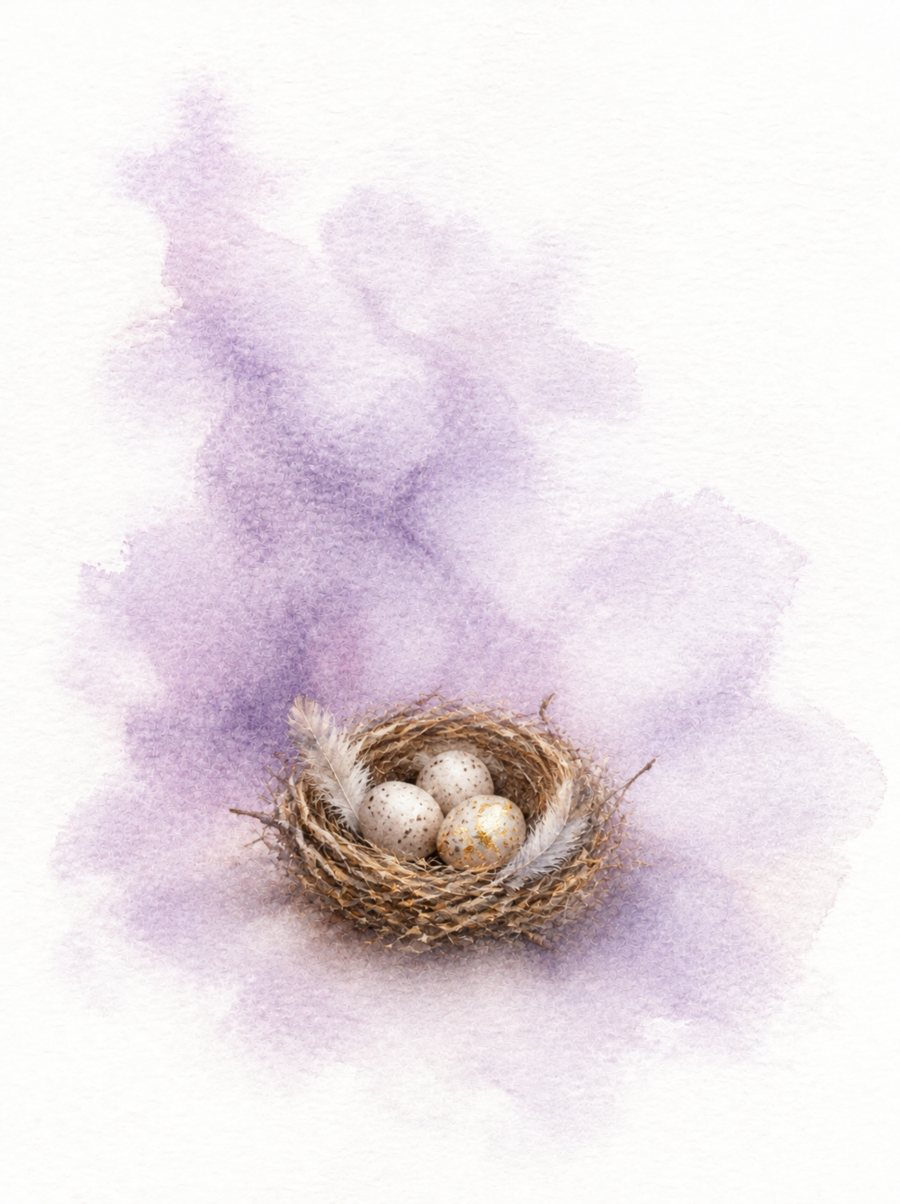
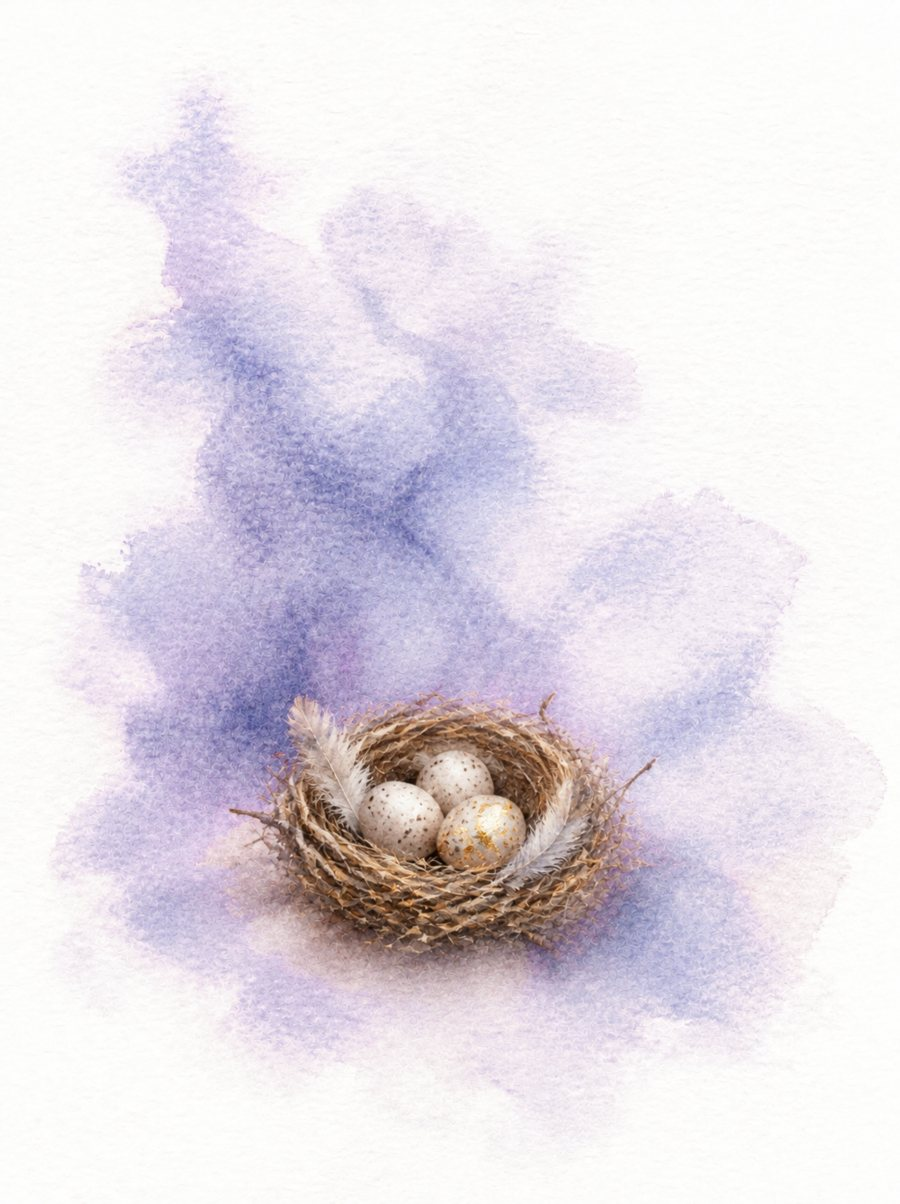
КОПИЯ: «Основа метода» — цвета уровней как у ступеней на сайте; карты растворяются в фоне, как чаши на «Твой путь»; у карт 2, 3, 5 оттенок облака подогнан под цвет ступени (Ирина: «3 2 5 переделаем»)
Claude-Session: https://claude.ai/code/session_0123FQX3t97AptEXXf1AmFJK

Changed region(s): [[0.1556, 0.2458, 0.56, 0.6761], [0.6533, 0.7375, 0.7467, 0.799], [0.7467, 0.5839, 0.7778, 0.6146]]

diff --git a/osnova/index.html b/osnova/index.html
@@ -413,9 +413,9 @@ footer a{color:var(--muted)}
 }
 
 /* ===== «Основа метода» (osnova/, 15.10.2026) — цвета уровней спиральной динамики ===== */
-:root{--l1:#9C8461;--l1s:#F2EADC;--l2:#76579A;--l2s:#EFE7F6;--l3:#B4433A;--l3s:#F8E4E0;--l4:#2F5E95;--l4s:#E3ECF6;--l5:#BE661C;--l5s:#F9E9D7;--l6:#4C7A43;--l6s:#E5EFDF;--l7:#9A7A0E;--l7s:#F7F0D2;--l8:#1C827E;--l8s:#DDF1EF;--gold:#B98324;--fig:#FBF7F0}
-@media (prefers-color-scheme: dark){:root:not([data-theme="light"]){--l1:#D2BE9A;--l1s:#3A3126;--l2:#C6ACE2;--l2s:#30273A;--l3:#F0A69C;--l3s:#3D2624;--l4:#9CC2EA;--l4s:#1D2733;--l5:#F2B57E;--l5s:#3B2B1D;--l6:#AED3A0;--l6s:#243020;--l7:#E8CF6E;--l7s:#373017;--l8:#8ED9D3;--l8s:#1B3331;--gold:#E2B45C;--fig:#F4EEE4}}
-:root[data-theme="dark"]{--l1:#D2BE9A;--l1s:#3A3126;--l2:#C6ACE2;--l2s:#30273A;--l3:#F0A69C;--l3s:#3D2624;--l4:#9CC2EA;--l4s:#1D2733;--l5:#F2B57E;--l5s:#3B2B1D;--l6:#AED3A0;--l6s:#243020;--l7:#E8CF6E;--l7s:#373017;--l8:#8ED9D3;--l8s:#1B3331;--gold:#E2B45C;--fig:#F4EEE4}
+:root{--l1:#8E8470;--l1s:#ECE7DD;--l2:#6A5FB8;--l2s:#E7E4F7;--l3:#C25468;--l3s:#F8E0E4;--l4:#3F6FBF;--l4s:#E1EBFA;--l5:#C97E52;--l5s:#FAE8DC;--l6:#4E9A70;--l6s:#E1F1E7;--l7:#A99A2E;--l7s:#F7F2D3;--l8:#2894A0;--l8s:#DDF3F4;--gold:#B98324;--fig:#FBF7F0}  /* цвета ступеней — как на сайте (put/, главная: COL, STEPC) */
+@media (prefers-color-scheme: dark){:root:not([data-theme="light"]){--l1:#CFC4AE;--l1s:#35302A;--l2:#B3AAEE;--l2s:#2C2A3D;--l3:#F0A0AE;--l3s:#3B2529;--l4:#9DBEF0;--l4s:#1F2836;--l5:#EDB08A;--l5s:#3A2C22;--l6:#9FD6B5;--l6s:#213128;--l7:#DDD07A;--l7s:#353219;--l8:#8AD6DB;--l8s:#1B3234;--gold:#E2B45C;--fig:#F4EEE4}}
+:root[data-theme="dark"]{--l1:#CFC4AE;--l1s:#35302A;--l2:#B3AAEE;--l2s:#2C2A3D;--l3:#F0A0AE;--l3s:#3B2529;--l4:#9DBEF0;--l4s:#1F2836;--l5:#EDB08A;--l5s:#3A2C22;--l6:#9FD6B5;--l6s:#213128;--l7:#DDD07A;--l7s:#353219;--l8:#8AD6DB;--l8s:#1B3234;--gold:#E2B45C;--fig:#F4EEE4}
 .os h3{font-size:1.5rem}
 .os-hero{grid-template-columns:1.2fr .8fr}
 .os-hero h1{font-size:clamp(2.3rem,5.6vw,3.9rem)}
@@ -467,8 +467,11 @@ footer a{color:var(--muted)}
 @media (max-width:820px){.os-lvl{grid-template-columns:1fr;gap:18px;padding:18px}.os-lvl .os-card{max-width:250px}}
 .os-card{margin:0;display:flex;flex-direction:column;gap:8px;position:sticky;top:96px}
 @media (max-width:820px){.os-card{position:static}}
-.os-card picture,.os-card .os-ph{display:block;width:100%;aspect-ratio:3/4;border-radius:14px;overflow:hidden;background:var(--fig);box-shadow:0 14px 30px -20px rgba(60,40,20,.55)}
-.os-card img{display:block;width:100%;height:100%;object-fit:cover;mix-blend-mode:multiply}
+.os-card picture{display:block;width:100%;aspect-ratio:3/4;overflow:hidden}
+.os-card .os-ph{display:block;width:100%;aspect-ratio:3/4;border-radius:14px;overflow:hidden;background:var(--fig)}
+.os-card img{display:block;width:100%;height:100%;object-fit:cover;mix-blend-mode:multiply}  /* белая бумага растворяется в фоне, как чаши на «Твой путь» */
+@media (prefers-color-scheme: dark){:root:not([data-theme="light"]) .os-card img{mix-blend-mode:normal;border-radius:14px;opacity:.92}}
+:root[data-theme="dark"] .os-card img{mix-blend-mode:normal;border-radius:14px;opacity:.92}
 .os-card.ph{position:relative}
 .os-card .os-ph{background:radial-gradient(ellipse 48% 30% at 50% 66%,color-mix(in srgb,var(--cd) 36%,transparent),transparent 72%),radial-gradient(ellipse 60% 46% at 42% 46%,color-mix(in srgb,var(--cd) 20%,transparent),transparent 70%),radial-gradient(ellipse 40% 34% at 64% 34%,color-mix(in srgb,var(--cd) 14%,transparent),transparent 70%),var(--fig)}
 .os-ph-t{position:absolute;left:0;right:0;top:0;aspect-ratio:3/4;display:flex;flex-direction:column;align-items:center;justify-content:flex-end;gap:2px;padding:16px;text-align:center}
@@ -632,7 +635,7 @@ footer a{color:var(--muted)}
     <nav class="os-lnav" aria-label="Уровни"><a href="#uroven-1" style="--c:var(--l1)"><i></i>1 · Выжить и согреться</a><a href="#uroven-2" style="--c:var(--l2)"><i></i>2 · Быть среди своих</a><a href="#uroven-3" style="--c:var(--l3)"><i></i>3 · Своя сила</a><a href="#uroven-4" style="--c:var(--l4)"><i></i>4 · Порядок и смысл</a><a href="#uroven-5" style="--c:var(--l5)"><i></i>5 · Свой успех</a><a href="#uroven-6" style="--c:var(--l6)"><i></i>6 · Люди и близость</a><a href="#uroven-7" style="--c:var(--l7)"><i></i>7 · Жизнь целиком</a><a href="#uroven-8" style="--c:var(--l8)"><i></i>8 · Одно целое</a></nav>
     <div class="os-lvls">
     <article class="os-lvl" id="uroven-1" style="--c:var(--l1);--s:var(--l1s)" aria-labelledby="ul1">
-      <figure class="os-card" style="--cd:#8A7352"><picture><source srcset="img/01-koster.webp" type="image/webp"><img src="img/01-koster.jpg" width="900" height="1204" loading="lazy" alt="Акварельная карта «Огонь, который греет»"></picture><figcaption><b>Огонь, который греет</b><span>выжить, согреться, перевести дух</span></figcaption></figure>
+      <figure class="os-card" style="--cd:#8E8470"><picture><source srcset="img/01-koster.webp" type="image/webp"><img src="img/01-koster.jpg" width="900" height="1204" loading="lazy" alt="Акварельная карта «Огонь, который греет»"></picture><figcaption><b>Огонь, который греет</b><span>выжить, согреться, перевести дух</span></figcaption></figure>
       <div class="os-lvl-body">
         <div class="os-lh"><span class="os-num">1</span><div><div class="os-eb">Уровень 1 · бежевый · A–N · про «я»</div><h3 id="ul1">Выжить и согреться</h3></div></div>
         <p class="os-ess">Всё внимание уходит на тело: еду, тепло, сон и безопасность. Думать о будущем и о смысле пока некогда, и это правильно: сначала нужно выжить и сохранить силы.</p>
@@ -650,7 +653,7 @@ footer a{color:var(--muted)}
       </div>
     </article>
     <article class="os-lvl" id="uroven-2" style="--c:var(--l2);--s:var(--l2s)" aria-labelledby="ul2">
-      <figure class="os-card" style="--cd:#6B4C8C"><picture><source srcset="img/02-gnezdo.webp" type="image/webp"><img src="img/02-gnezdo.jpg" width="900" height="1204" loading="lazy" alt="Акварельная карта «Гнездо»"></picture><figcaption><b>Гнездо</b><span>свои рядом, тепло рода</span></figcaption></figure>
+      <figure class="os-card" style="--cd:#6A5FB8"><picture><source srcset="img/02-gnezdo.webp" type="image/webp"><img src="img/02-gnezdo.jpg" width="900" height="1204" loading="lazy" alt="Акварельная карта «Гнездо»"></picture><figcaption><b>Гнездо</b><span>свои рядом, тепло рода</span></figcaption></figure>
       <div class="os-lvl-body">
         <div class="os-lh"><span class="os-num">2</span><div><div class="os-eb">Уровень 2 · фиолетовый · B–O · про «мы»</div><h3 id="ul2">Быть среди своих</h3></div></div>
         <p class="os-ess">Безопасность приходит через принадлежность: семья, род, община, свои обычаи. Здесь рождаются ритуалы, приметы, праздники и тёплое чувство «мы вместе».</p>
@@ -668,7 +671,7 @@ footer a{color:var(--muted)}
       </div>
     </article>
     <article class="os-lvl" id="uroven-3" style="--c:var(--l3);--s:var(--l3s)" aria-labelledby="ul3">
-      <figure class="os-card" style="--cd:#A63C33"><picture><source srcset="img/03-mak.webp" type="image/webp"><img src="img/03-mak.jpg" width="900" height="1204" loading="lazy" alt="Акварельная карта «Мак сквозь камень»"></picture><figcaption><b>Мак сквозь камень</b><span>пробиться и заявить о себе</span></figcaption></figure>
+      <figure class="os-card" style="--cd:#C25468"><picture><source srcset="img/03-mak.webp" type="image/webp"><img src="img/03-mak.jpg" width="900" height="1204" loading="lazy" alt="Акварельная карта «Мак сквозь камень»"></picture><figcaption><b>Мак сквозь камень</b><span>пробиться и заявить о себе</span></figcaption></figure>
       <div class="os-lvl-body">
         <div class="os-lh"><span class="os-num">3</span><div><div class="os-eb">Уровень 3 · красный · C–P · про «я»</div><h3 id="ul3">Своя сила</h3></div></div>
         <p class="os-ess">Человек отделяется от рода и говорит: «я есть, и я могу». Здесь энергия, смелость, напор, желание получить своё сейчас и уважение к себе.</p>
@@ -686,7 +689,7 @@ footer a{color:var(--muted)}
       </div>
     </article>
     <article class="os-lvl" id="uroven-4" style="--c:var(--l4);--s:var(--l4s)" aria-labelledby="ul4">
-      <figure class="os-card" style="--cd:#2B578A"><picture><source srcset="img/04-kompas.webp" type="image/webp"><img src="img/04-kompas.jpg" width="900" height="1204" loading="lazy" alt="Акварельная карта «Компас»"></picture><figcaption><b>Компас</b><span>я знаю, где север</span></figcaption></figure>
+      <figure class="os-card" style="--cd:#3F6FBF"><picture><source srcset="img/04-kompas.webp" type="image/webp"><img src="img/04-kompas.jpg" width="900" height="1204" loading="lazy" alt="Акварельная карта «Компас»"></picture><figcaption><b>Компас</b><span>я знаю, где север</span></figcaption></figure>
       <div class="os-lvl-body">
         <div class="os-lh"><span class="os-num">4</span><div><div class="os-eb">Уровень 4 · синий · D–Q · про «мы»</div><h3 id="ul4">Порядок и смысл</h3></div></div>
         <p class="os-ess">Есть правильный путь, правила и долг. Человек готов потерпеть сейчас ради надёжного будущего и ради того, что правильно.</p>
@@ -704,7 +707,7 @@ footer a{color:var(--muted)}
       </div>
     </article>
     <article class="os-lvl" id="uroven-5" style="--c:var(--l5);--s:var(--l5s)" aria-labelledby="ul5">
-      <figure class="os-card" style="--cd:#A85A16"><picture><source srcset="img/05-shar.webp" type="image/webp"><img src="img/05-shar.jpg" width="900" height="1204" loading="lazy" alt="Акварельная карта «Воздушный шар»"></picture><figcaption><b>Воздушный шар</b><span>подняться на свою высоту</span></figcaption></figure>
+      <figure class="os-card" style="--cd:#C97E52"><picture><source srcset="img/05-shar.webp" type="image/webp"><img src="img/05-shar.jpg" width="900" height="1204" loading="lazy" alt="Акварельная карта «Воздушный шар»"></picture><figcaption><b>Воздушный шар</b><span>подняться на свою высоту</span></figcaption></figure>
       <div class="os-lvl-body">
         <div class="os-lh"><span class="os-num">5</span><div><div class="os-eb">Уровень 5 · оранжевый · E–R · про «я»</div><h3 id="ul5">Свой успех</h3></div></div>
         <p class="os-ess">Человек верит, что может улучшить свою жизнь сам: ставит цели, ищет лучший способ, пробует, считает и растёт.</p>
@@ -722,7 +725,7 @@ footer a{color:var(--muted)}
       </div>
     </article>
     <article class="os-lvl" id="uroven-6" style="--c:var(--l6);--s:var(--l6s)" aria-labelledby="ul6">
-      <figure class="os-card" style="--cd:#447038"><picture><source srcset="img/06-venok.webp" type="image/webp"><img src="img/06-venok.jpg" width="900" height="1204" loading="lazy" alt="Акварельная карта «Венок из полевых цветов»"></picture><figcaption><b>Венок из полевых цветов</b><span>все разные — все в одном круге</span></figcaption></figure>
+      <figure class="os-card" style="--cd:#4E9A70"><picture><source srcset="img/06-venok.webp" type="image/webp"><img src="img/06-venok.jpg" width="900" height="1204" loading="lazy" alt="Акварельная карта «Венок из полевых цветов»"></picture><figcaption><b>Венок из полевых цветов</b><span>все разные — все в одном круге</span></figcaption></figure>
       <div class="os-lvl-body">
         <div class="os-lh"><span class="os-num">6</span><div><div class="os-eb">Уровень 6 · зелёный · F–S · про «мы»</div><h3 id="ul6">Люди и близость</h3></div></div>
         <p class="os-ess">Важно, что чувствуют другие, быть принятой, слышать и быть услышанной. Все разные, и все равны.</p>
@@ -740,7 +743,7 @@ footer a{color:var(--muted)}
       </div>
     </article>
     <article class="os-lvl" id="uroven-7" style="--c:var(--l7);--s:var(--l7s)" aria-labelledby="ul7">
-      <figure class="os-card ph" style="--cd:#86690A"><span class="os-ph" aria-hidden="true"></span><span class="os-ph-t"><b>Раковина наутилуса</b><small>карта рисуется</small></span><figcaption><b>Раковина наутилуса</b><span>каждый виток остаётся частью целого</span></figcaption></figure>
+      <figure class="os-card ph" style="--cd:#A99A2E"><span class="os-ph" aria-hidden="true"></span><span class="os-ph-t"><b>Раковина наутилуса</b><small>карта рисуется</small></span><figcaption><b>Раковина наутилуса</b><span>каждый виток остаётся частью целого</span></figcaption></figure>
       <div class="os-lvl-body">
         <div class="os-lh"><span class="os-num">7</span><div><div class="os-eb">Уровень 7 · жёлтый · G–T · про «я»</div><h3 id="ul7">Жизнь целиком</h3></div></div>
         <p class="os-ess">Человек видит, как всё связано, и не держится за один правильный способ. В одной ситуации нужен порядок, в другой — смелость, в третьей — забота, и он может опереться на любой из них.</p>
@@ -758,7 +761,7 @@ footer a{color:var(--muted)}
       </div>
     </article>
     <article class="os-lvl" id="uroven-8" style="--c:var(--l8);--s:var(--l8s)" aria-labelledby="ul8">
-      <figure class="os-card ph" style="--cd:#17736F"><span class="os-ph" aria-hidden="true"></span><span class="os-ph-t"><b>Мир в капле росы</b><small>карта рисуется</small></span><figcaption><b>Мир в капле росы</b><span>здесь и там — одно целое</span></figcaption></figure>
+      <figure class="os-card ph" style="--cd:#2894A0"><span class="os-ph" aria-hidden="true"></span><span class="os-ph-t"><b>Мир в капле росы</b><small>карта рисуется</small></span><figcaption><b>Мир в капле росы</b><span>здесь и там — одно целое</span></figcaption></figure>
       <div class="os-lvl-body">
         <div class="os-lh"><span class="os-num">8</span><div><div class="os-eb">Уровень 8 · бирюзовый · H–U · про «мы»</div><h3 id="ul8">Одно целое</h3></div></div>
         <p class="os-ess">Человек чувствует себя частью большего: людей, природы, поколений. Важно то, что останется после тебя.</p>
